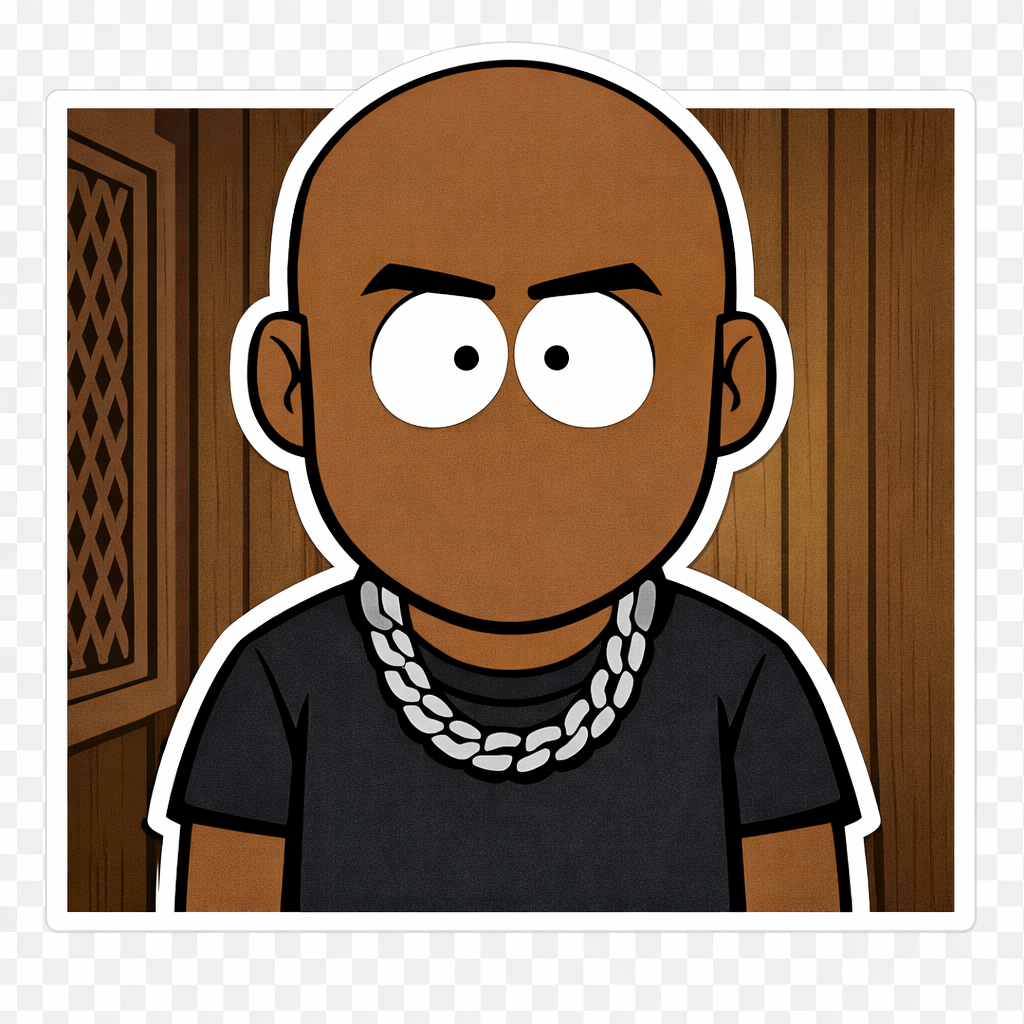
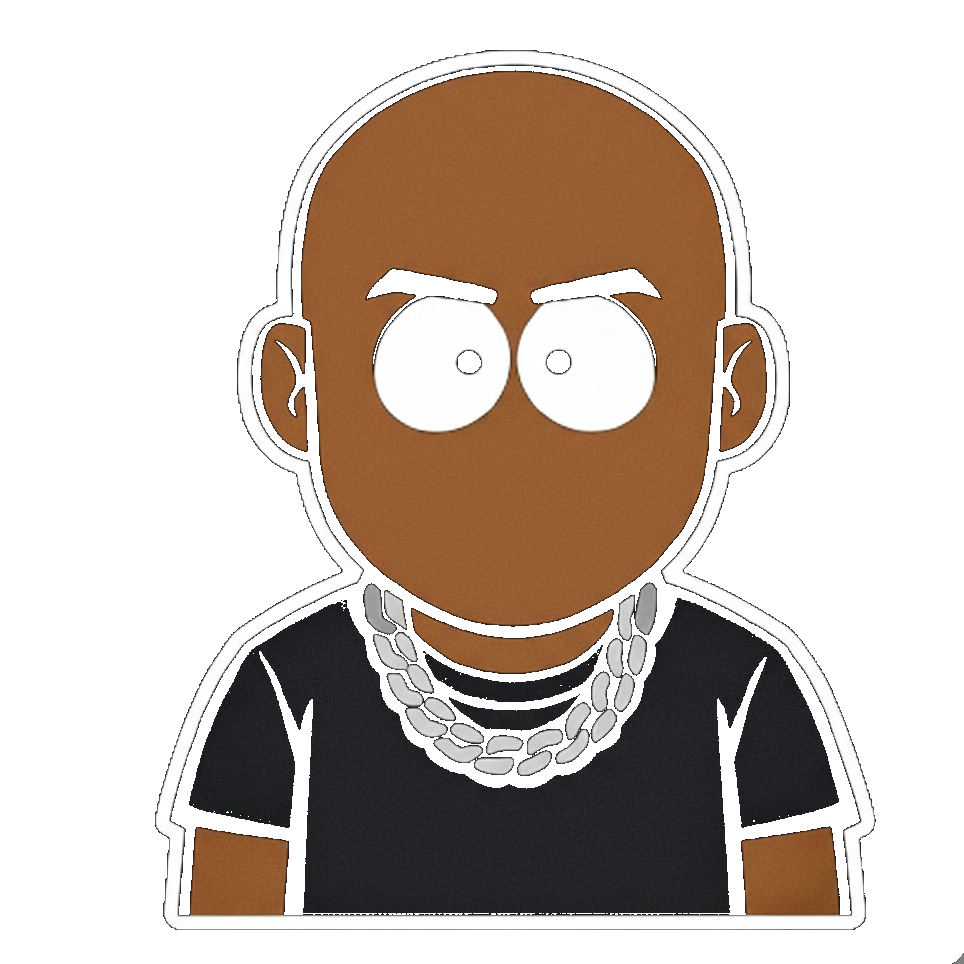
feat: add studio background and position Booba at bottom
- Add troll rap studio background
- Remove wooden background from character (transparent)
- Position Booba at bottom of frame in site and video
- Keep lip sync intact

diff --git a/src/app/api/generate-video/route.ts b/src/app/api/generate-video/route.ts
@@ -46,6 +46,7 @@ export async function POST(request: NextRequest) {
     // 4. Load assets
     const publicDir = path.join(process.cwd(), "public", "booba");
     const characterBuffer = await fs.readFile(path.join(publicDir, "character.png"));
+    const backgroundBuffer = await fs.readFile(path.join(publicDir, "background.png"));
 
     const mouthBuffers: Record<MouthShape, Buffer> = {
       closed: await fs.readFile(path.join(publicDir, MOUTH_FILES.closed)),
@@ -61,6 +62,7 @@ export async function POST(request: NextRequest) {
     for (let i = 0; i < totalFrames; i++) {
       const mouthShape = volumeToMouthShape(volumes[i] || 0);
       const frameBuffer = await generateFrame(
+        backgroundBuffer,
         characterBuffer,
         mouthBuffers[mouthShape]
       );
@@ -172,42 +174,41 @@ function volumeToMouthShape(volume: number): MouthShape {
 }
 
 async function generateFrame(
+  backgroundBuffer: Buffer,
   characterBuffer: Buffer,
   mouthBuffer: Buffer
 ): Promise<Buffer> {
-  // Character size (60% of video height)
-  const charSize = Math.floor(VIDEO_HEIGHT * 0.6);
+  // Resize background to video size
+  const resizedBg = await sharp(backgroundBuffer)
+    .resize(VIDEO_WIDTH, VIDEO_HEIGHT, { fit: "cover" })
+    .toBuffer();
+
+  // Character size (75% of video height - bigger!)
+  const charSize = Math.floor(VIDEO_HEIGHT * 0.75);
 
   // Resize character
   const resizedChar = await sharp(characterBuffer)
     .resize(charSize, charSize, { fit: "contain", background: { r: 0, g: 0, b: 0, alpha: 0 } })
     .toBuffer();
 
-  // Mouth size (25% of character)
-  const mouthWidth = Math.floor(charSize * 0.25);
-  const mouthHeight = Math.floor(charSize * 0.2);
+  // Mouth size (22% of character width)
+  const mouthWidth = Math.floor(charSize * 0.22);
+  const mouthHeight = Math.floor(charSize * 0.18);
 
   const resizedMouth = await sharp(mouthBuffer)
     .resize(mouthWidth, mouthHeight, { fit: "contain", background: { r: 0, g: 0, b: 0, alpha: 0 } })
     .toBuffer();
 
-  // Positions
+  // Positions - character centered at bottom
   const charX = Math.floor((VIDEO_WIDTH - charSize) / 2);
-  const charY = Math.floor(VIDEO_HEIGHT * 0.15);
+  const charY = VIDEO_HEIGHT - charSize;
 
   // Mouth at 52% of character height, centered
   const mouthX = charX + Math.floor((charSize - mouthWidth) / 2);
   const mouthY = charY + Math.floor(charSize * 0.52) - Math.floor(mouthHeight / 2);
 
-  // Create frame
-  const frame = await sharp({
-    create: {
-      width: VIDEO_WIDTH,
-      height: VIDEO_HEIGHT,
-      channels: 4,
-      background: { r: 24, g: 24, b: 27, alpha: 1 },
-    },
-  })
+  // Create frame with background
+  const frame = await sharp(resizedBg)
     .composite([
       { input: resizedChar, left: charX, top: charY },
       { input: resizedMouth, left: mouthX, top: mouthY },

diff --git a/src/components/TranslatorBooth.tsx b/src/components/TranslatorBooth.tsx
@@ -118,9 +118,18 @@ export function TranslatorBooth() {
 
   return (
     <div className="max-w-xl mx-auto">
-      {/* Character */}
-      <div className="mb-8">
-        <BoobaCharacter mouthShape={state === "playing" ? mouthShape : "closed"} />
+      {/* Character with background */}
+      <div className="mb-8 relative rounded-lg overflow-hidden">
+        <img
+          src="/booba/background.png"
+          alt="Studio"
+          className="w-full h-auto"
+        />
+        <div className="absolute inset-0 flex items-end justify-center">
+          <div className="w-[70%]">
+            <BoobaCharacter mouthShape={state === "playing" ? mouthShape : "closed"} />
+          </div>
+        </div>
       </div>
 
       {/* Video preview when done */}
